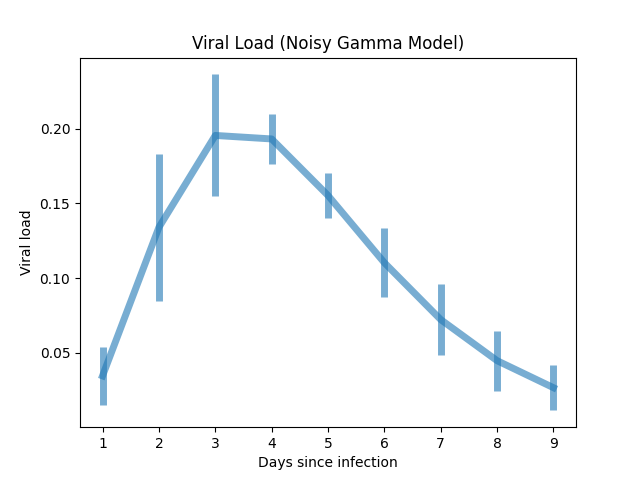
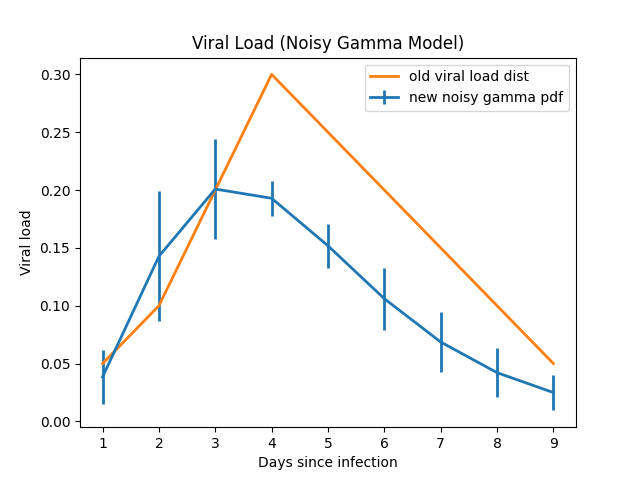
added old plot

diff --git a/viral_load_plot.py b/viral_load_plot.py
@@ -16,7 +16,9 @@ print(f"viral_loads means: {viral_loads.mean(axis=0)}")
 print(f"viral_loads stds: {viral_loads.std(axis=0)}")
 
 fig, ax = plt.subplots(1, 1)
-ax.errorbar(x, viral_loads.mean(axis=0), yerr=viral_loads.std(axis=0), lw=5, alpha=0.6, label='gamma pdf')
+ax.errorbar(x, viral_loads.mean(axis=0), yerr=viral_loads.std(axis=0), lw=2, label='new noisy gamma pdf')
+ax.plot(x, [0.05, 0.1, 0.2, 0.3, 0.25, 0.2, 0.15, 0.1, 0.05], lw=2, label='old viral load dist')
+plt.legend()
 plt.xlabel("Days since infection")
 plt.ylabel("Viral load")
 plt.title("Viral Load (Noisy Gamma Model)")
